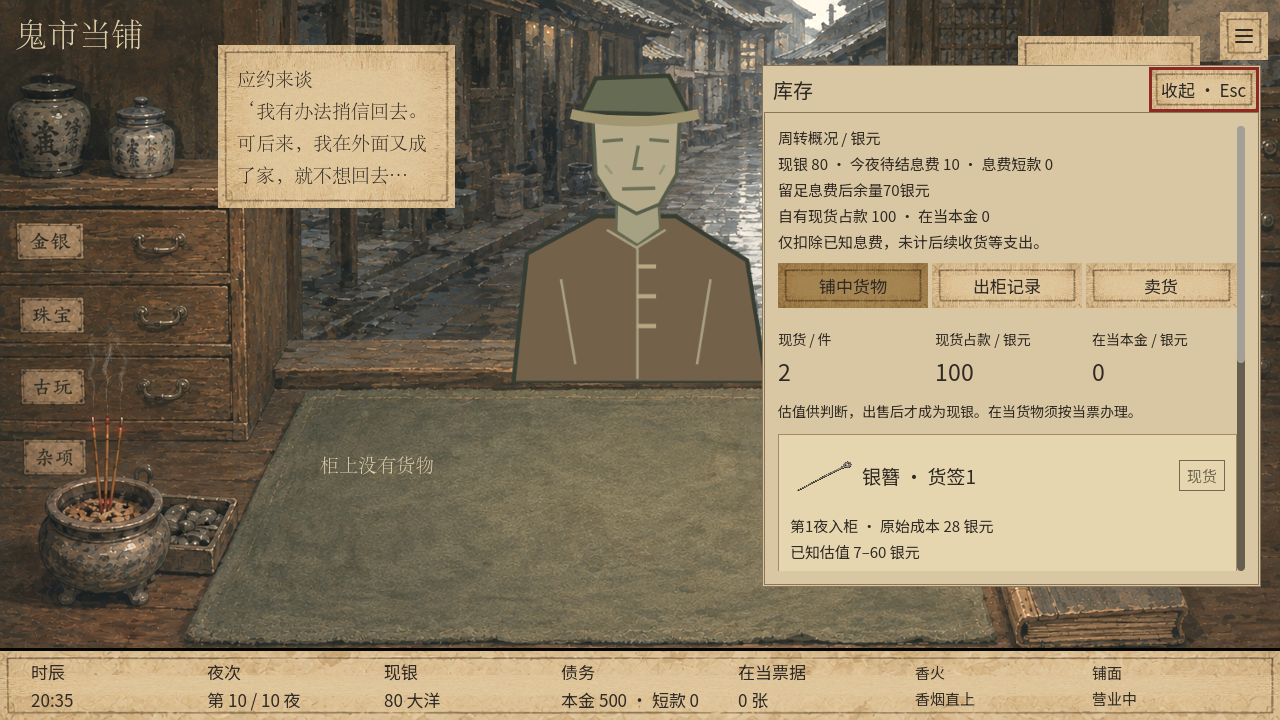
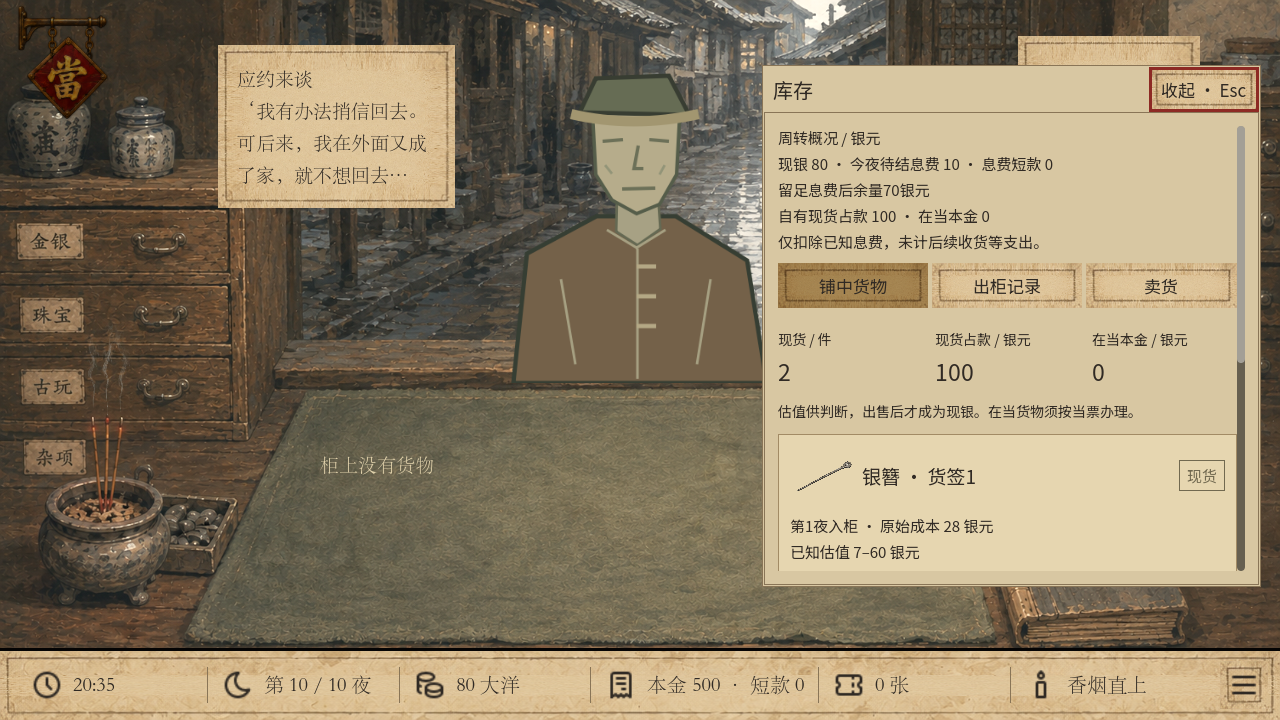
test: verify mirror release against current main

diff --git a/docs/qa/v26/REPORT.md b/docs/qa/v26/REPORT.md
@@ -1,5 +1,11 @@
 # v26 本地验收记录
 
+## 发布前整合检查 · 2026-09-17
+
+已合入 main 的普通客人立绘、当字悬牌与底栏菜单、标题页启动及读取性能修复（截至 `a99786b`）。整合后重新检查：铜镜完整流程2512项、v25结局回归426项、标题页性能23项、1280×720与1600×900界面各274项，全部通过。两种尺寸均覆盖四种结局、单次现身、紧凑继续按钮、无延期选项、收起重返和结局存档；截图已按整合后的版本更新。
+
+情报奖励仅保留为后续策划备注，未加入发放逻辑。测试使用隔离存档。发布前曾遇到C盘空间不足，空间恢复后完整重跑通过；此前失败结果不作为验收依据。日志为 `.godot/v26-release-*.log`。
+
 ## 移除对质中的改日再谈
 
 2026-09-16按最新试玩反馈：移除所有对质分歧中的“改日再谈”，包括玩家交涉与最终收尾。右上“收起 · Esc”只隐藏页面，库存提醒可返回原对白／选择，不退出当前对质、不消耗时间或重抽反应。旧暂停命令保留供历史动作读取兼容，本次未改动领域规则。
